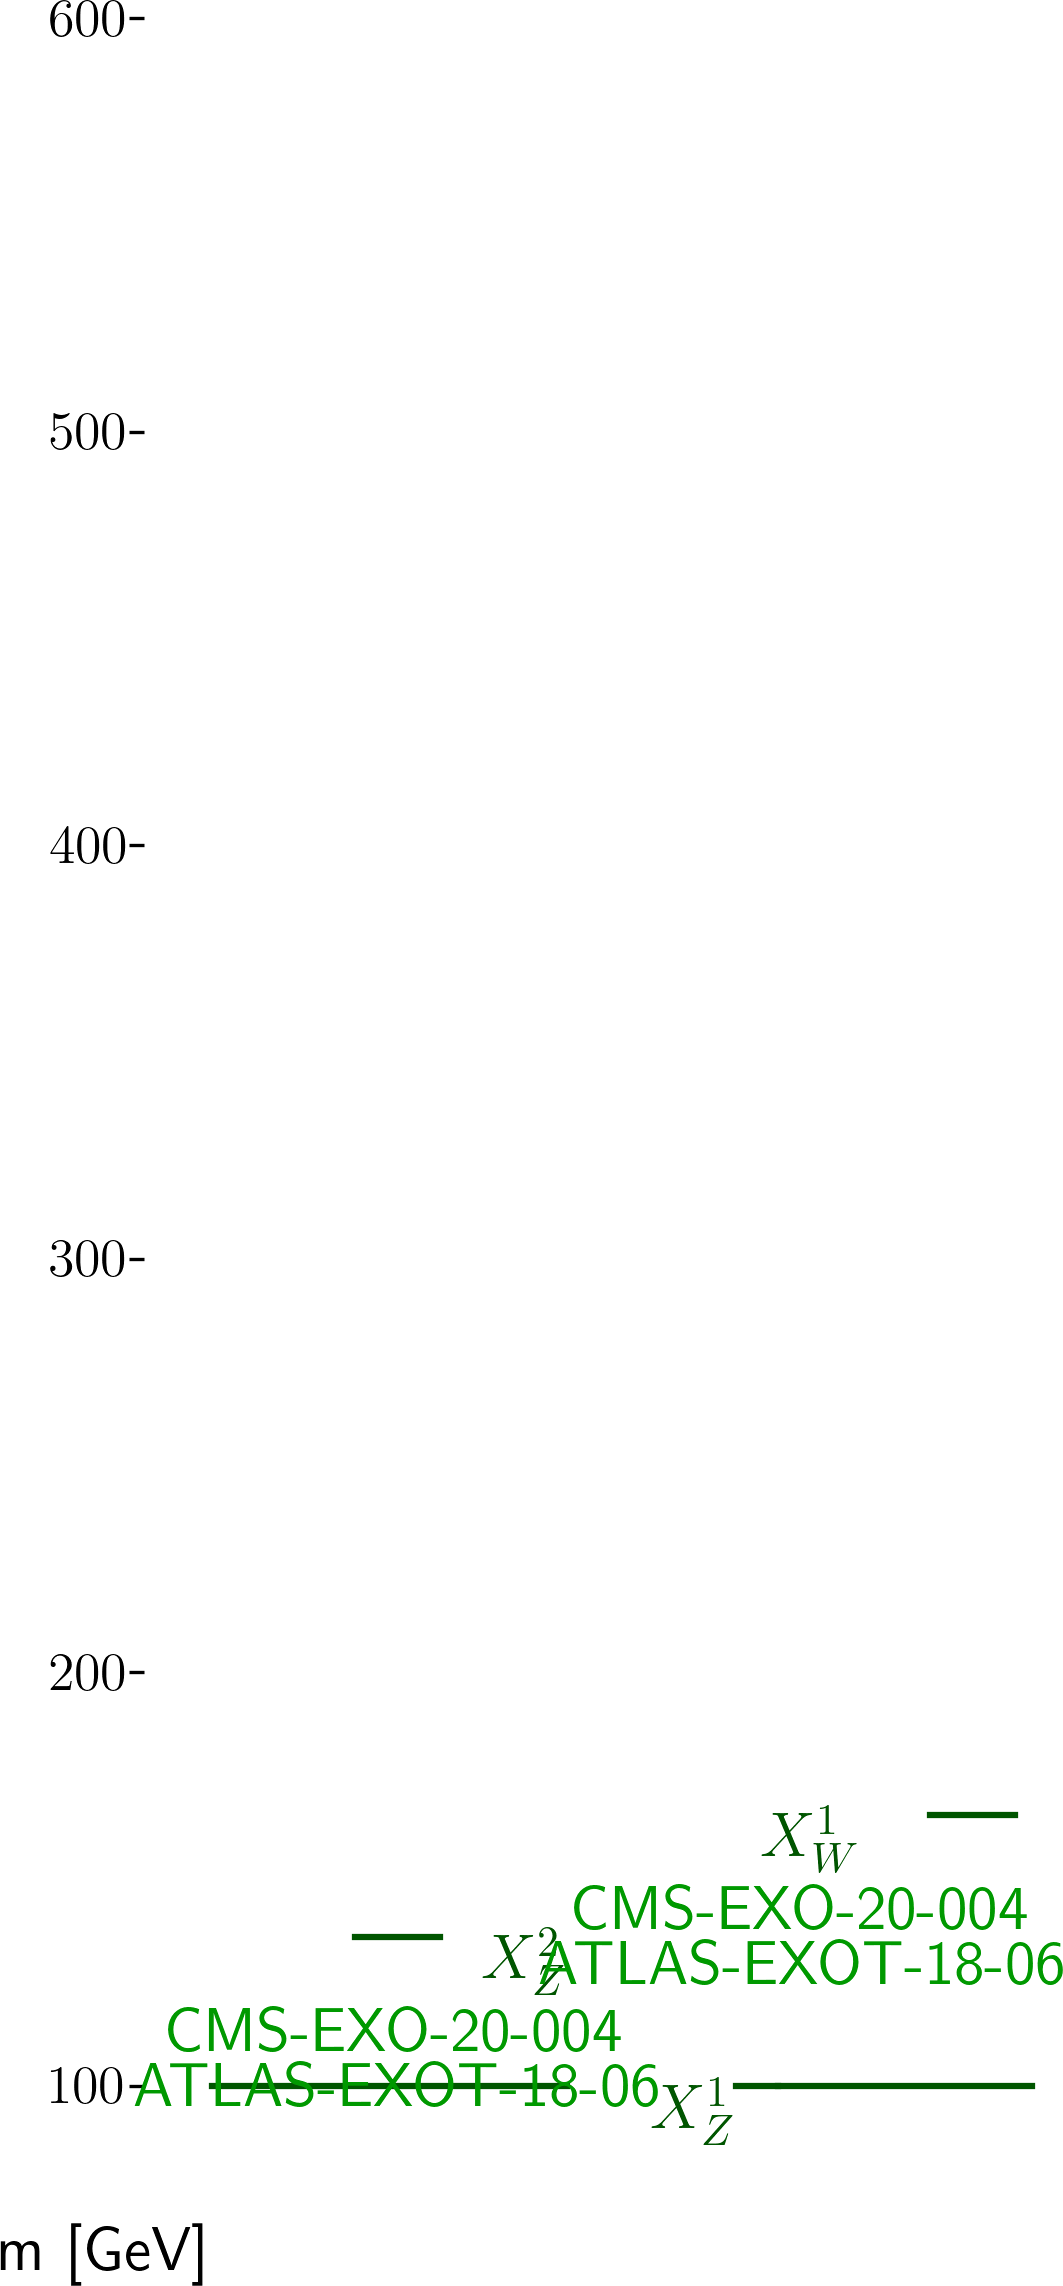
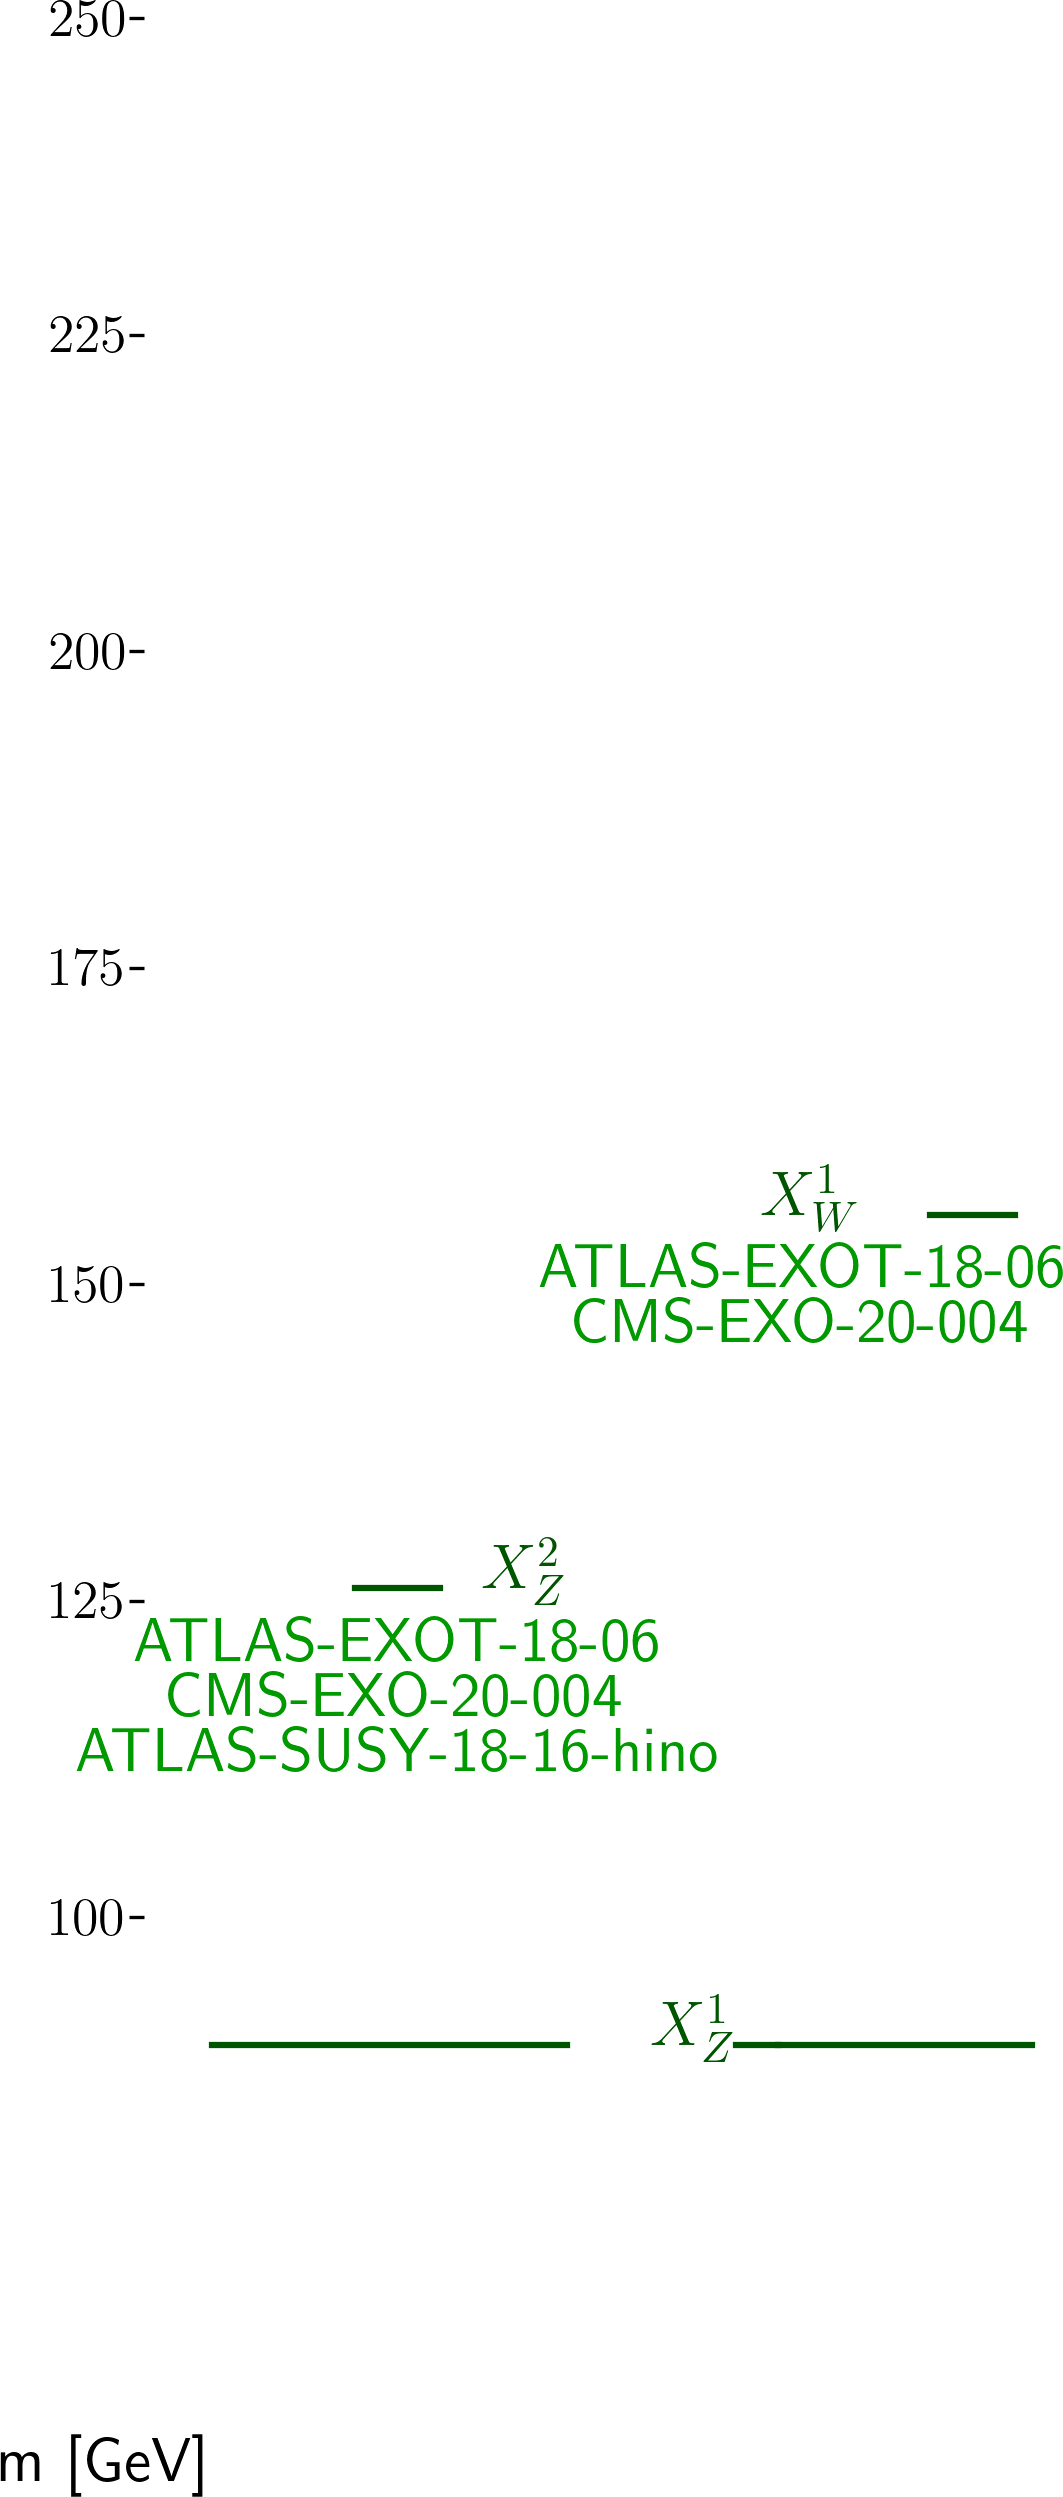
ewk

diff --git a/protomodels/ewk_310/index.html b/protomodels/ewk_310/index.html
@@ -1,20 +1,22 @@
 <html>
 <body>
 <center>
-<table><td><h1>Current best protomodel: <i>K</i>=23.53, <i>TL</i>=27.78</h1><td><img height=60px src=https://smodels.github.io//protomodels/logos/protomodel_lego.png></table>
+<table><td><h1>Current best protomodel: <i>K</i>=22.49, <i>TL</i>=27.49</h1><td><img height=60px src=https://smodels.github.io//protomodels/logos/protomodel_lego.png></table>
 </center>
-<b><a href=./hiscore.slha>ProtoModel</a> <a href=./pmodel.dict>(dict)</a> produced with <a href=https://smodels.github.io//docs/Validation310>database v3.1.0</a>, combination strategy <a href=./matrix.png>aggressive</a> in walker 0 step 1662.</b> <br>
+<b><a href=./hiscore.slha>ProtoModel</a> <a href=./pmodel.dict>(dict)</a> produced with <a href=https://smodels.github.io//docs/Validation310>database v3.1.0</a>, combination strategy <a href=./matrix.png>aggressive</a> in walker 0 step 48.</b> <br>
 <table width=80%>
 <tr><td>
-<br><b>2 predictions available. Highest r values are:</b><br><ul>
-<li><a href=https://atlas.web.cern.ch/Atlas/GROUPS/PHYSICS/PAPERS/EXOT-2018-06/>ATLAS-EXOT-2018-06</a>:em:TChiISR,TChiZISRqq r=1.38, r<sub>exp</sub>=1.49<br>
-<li><a href=http://cms-results.web.cern.ch/cms-results/public-results/publications/EXO-20-004/>CMS-EXO-20-004</a>:em:TChiISR,TChiZISRqq r=0.28, r<sub>exp</sub>=0.46<br>
+<br><b>5 predictions available. Highest r values are:</b><br><ul>
+<li><a href=https://atlas.web.cern.ch/Atlas/GROUPS/PHYSICS/PAPERS/EXOT-2018-06/>ATLAS-EXOT-2018-06</a>:EM8:TChiWISRll,TChiZISRqq,TChiISR,TChiZISRll r=1.31, r<sub>exp</sub>=1.42<br>
+<li><a href=http://cms-results.web.cern.ch/cms-results/public-results/publications/SUS-16-048/index.html>CMS-SUS-16-048</a>:Ewkino_highMET_M_10to20:TChiWZoff r=0.59, r<sub>exp</sub>=0.50<br>
+<li><a href=https://atlas.web.cern.ch/Atlas/GROUPS/PHYSICS/PAPERS/SUSY-2018-16/>ATLAS-SUSY-2018-16-hino</a>:SR_ewk_2l_high:TChiZoff r=0.38, r<sub>exp</sub>=0.36<br>
+<li><a href=http://cms-results.web.cern.ch/cms-results/public-results/publications/EXO-20-004/>CMS-EXO-20-004</a>:SR_2018_16:TChiWISRll,TChiZISRqq,TChiISR,TChiZISRll r=0.25, r<sub>exp</sub>=0.41<br>
 </ul>
-<td><img width=600px src=./texdoc.png?1754744022>
-<br><span style='font-size: smaller; color: darkred;'>Last updated: Sat Aug  9 14:53:42 2025</span>
+<td><img width=600px src=./texdoc.png?1755281716>
+<br><span style='font-size: smaller; color: darkred;'>Last updated: Fri Aug 15 20:15:16 2025</span>
 </table><table style="width:80%">
-<td width=45%><img height=580px src=./ruler.png?1754744022><td width=55%><img height=220px src=./decays.png?1754744022>
-<font size=-3><iframe type="text/html" height="350px" width="100%" frameborder="0" src="./rawnumbers.html?1754744022"></iframe></font>
+<td width=45%><img height=580px src=./ruler.png?1755281716><td width=55%><img height=220px src=./decays.png?1755281716>
+<font size=-3><iframe type="text/html" height="350px" width="100%" frameborder="0" src="./rawnumbers.html?1755281716"></iframe></font>
 </table>
 </body>
 </html>

diff --git a/protomodels/ewk_310/rawnumbers.html b/protomodels/ewk_310/rawnumbers.html
@@ -1,8 +1,9 @@
 <table>
 <tr><th>Analysis Name</th><th>Type</th><th>Dataset</th><th>Topos</th><th>Observed</th><th>Expected</th><th>Approx &sigma;</th><th>Particles</th>
 </tr>
-<tr><td><a href=http://cms-results.web.cern.ch/cms-results/public-results/publications/EXO-20-004/>CMS-EXO-20-004</a></td><td>comb</td> <td>-</td><td>TChiISR, TChiZISRqq</td><td> 2e+02 fb </td><td> 1e+02 fb</td><td style="text-align:right">4.6 &sigma;</td><td style="text-align:right">X<sup>1</sup><sub>W</sub>, X<sup>1</sup><sub>Z</sub>, X<sup>2</sup><sub>Z</sub></td></tr>
-<tr><td><a href=https://atlas.web.cern.ch/Atlas/GROUPS/PHYSICS/PAPERS/EXOT-2018-06/>ATLAS-EXOT-2018-06</a></td><td>em</td> <td>EM10</td><td>TChiISR, TChiZISRqq</td><td>413</td><td>359.00 +/- 10.00</td><td style="text-align:right">2.4 &sigma;</td><td style="text-align:right">X<sup>1</sup><sub>W</sub>, X<sup>1</sup><sub>Z</sub>, X<sup>2</sup><sub>Z</sub></td></tr>
+<tr><td><a href=http://cms-results.web.cern.ch/cms-results/public-results/publications/EXO-20-004/>CMS-EXO-20-004</a></td><td>comb</td> <td>-</td><td>TChiISR, TChiWISRll, TChiZISRll, TChiZISRqq</td><td> 2e+02 fb </td><td> 1e+02 fb</td><td style="text-align:right">4.5 &sigma;</td><td style="text-align:right">X<sup>1</sup><sub>W</sub>, X<sup>1</sup><sub>Z</sub>, X<sup>2</sup><sub>Z</sub></td></tr>
+<tr><td><a href=https://atlas.web.cern.ch/Atlas/GROUPS/PHYSICS/PAPERS/SUSY-2018-16/>ATLAS-SUSY-2018-16-hino</a></td><td>em</td> <td>SR_ewk_2l_med</td><td>TChiZoff</td><td>170</td><td>112.40 +/- 12.60</td><td style="text-align:right">3.3 &sigma;</td><td style="text-align:right">X<sup>1</sup><sub>Z</sub>, X<sup>2</sup><sub>Z</sub></td></tr>
+<tr><td><a href=https://atlas.web.cern.ch/Atlas/GROUPS/PHYSICS/PAPERS/EXOT-2018-06/>ATLAS-EXOT-2018-06</a></td><td>em</td> <td>EM10</td><td>TChiISR, TChiWISRll, TChiZISRll, TChiZISRqq</td><td>413</td><td>359.00 +/- 10.00</td><td style="text-align:right">2.5 &sigma;</td><td style="text-align:right">X<sup>1</sup><sub>W</sub>, X<sup>1</sup><sub>Z</sub>, X<sup>2</sup><sub>Z</sub></td></tr>
 </table>
 <table style='color:grey'>
 <tr><th>Not in Best Combo</th><th>Type</th><th>Dataset</th><th>Topos</th><th>Observed</th><th>Expected</th><th>Approx &sigma;</th><th>Particles</th></table>
